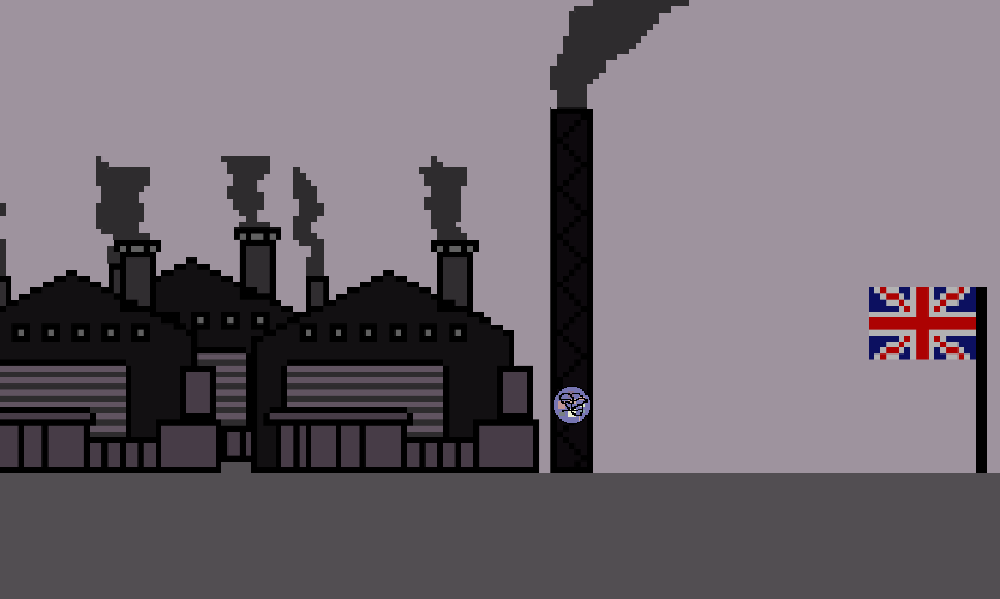
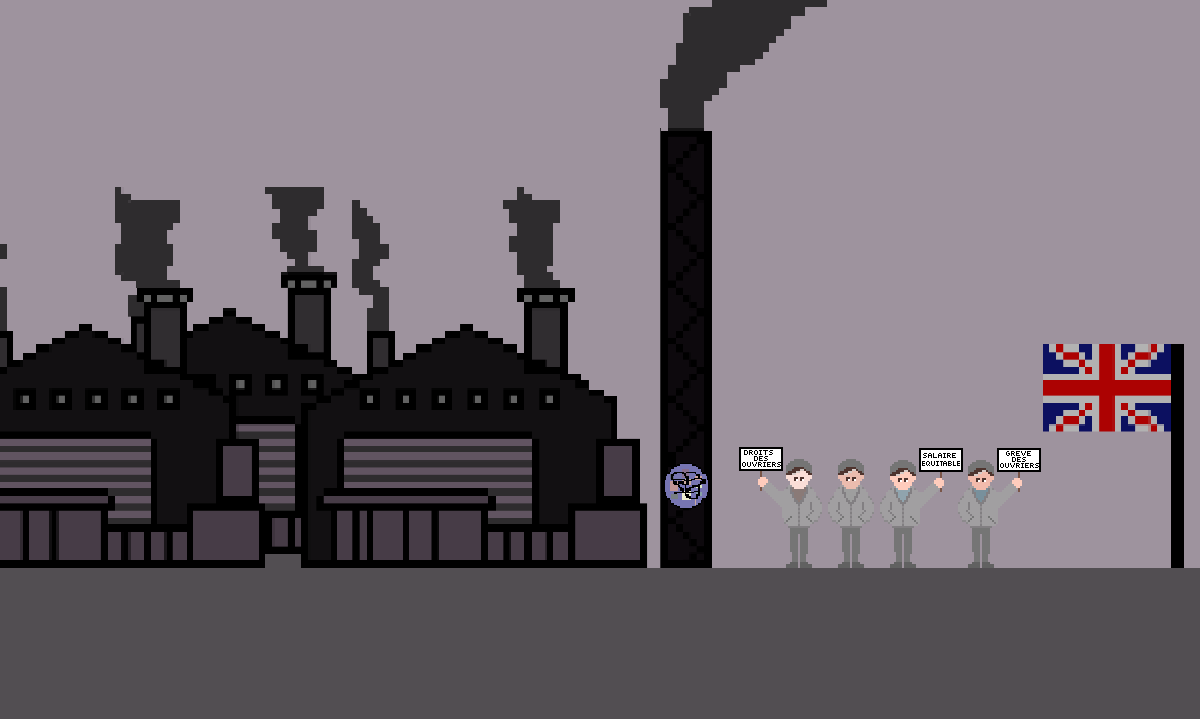
added lvl3bg

diff --git a/script.js b/script.js
@@ -151,7 +151,7 @@ function loop() {
     ctx.drawImage(background, 0, 0, cnv.width, cnv.height);
 
     // factory interior
-    if (screen === "level4") {
+    if (background === document.getElementById("level4")) {
       if (char.x < 200 && opacity < 10) {
         opacity += 1;
       } else if (char.x > 200 && opacity > 0) {
@@ -327,13 +327,15 @@ function loop() {
 
 function level1Setup() {
   if (screen = "level1") {
-    background = document.getElementById("level2");
+    background = document.getElementById("level3");
     wall1.x = -50;
     wall1.y = -50;
     wall2.x = -50;
     wall2.y = -50;
-    wall3.x = -50;
-    wall3.y = -50;
+    wall3.x = 549;
+    wall3.y = 386;
+    wall3.w = 45.1;
+    wall3.h = 50;
     platform1.x = -50;
     platform1.y = -50;
     platform2.x = -50;

diff --git a/index.html b/index.html
@@ -13,6 +13,7 @@
 	<!-- Load Backgrounds (Images) -->
 	<img id="level1" src="img/lvl1bg.png"/>
 	<img id="level2" src="img/lvl2bg.png"/>
+	<img id="level3" src="img/lvl3bg.png"/>
 	<img id="level4" src="img/lvl4bg.png"/>
 	<img id="level5" src="img/lvl5bg.png"/>
 	<img id="puzzle" src="img/puzzlebg.png"/>
